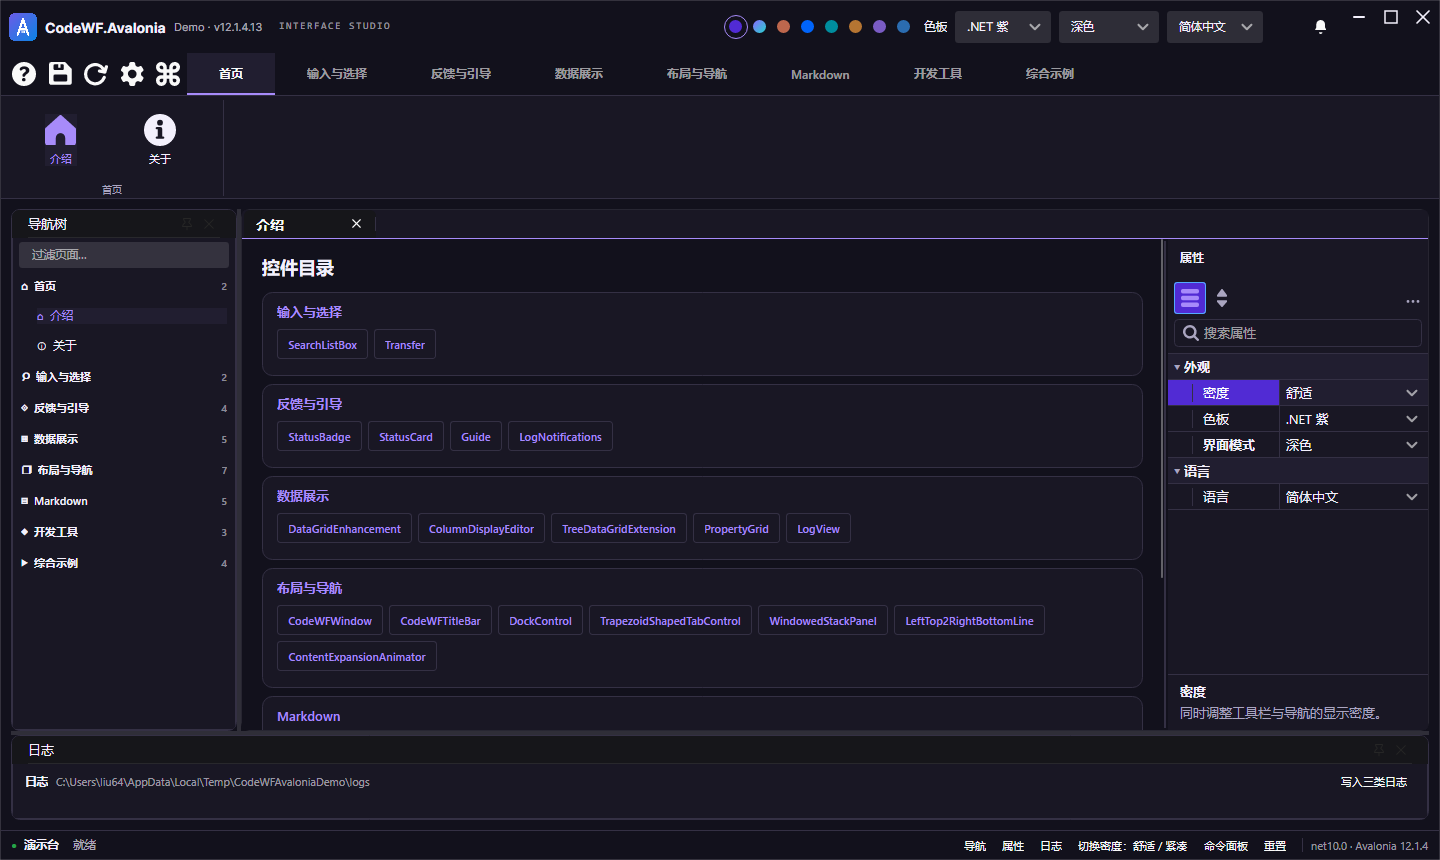
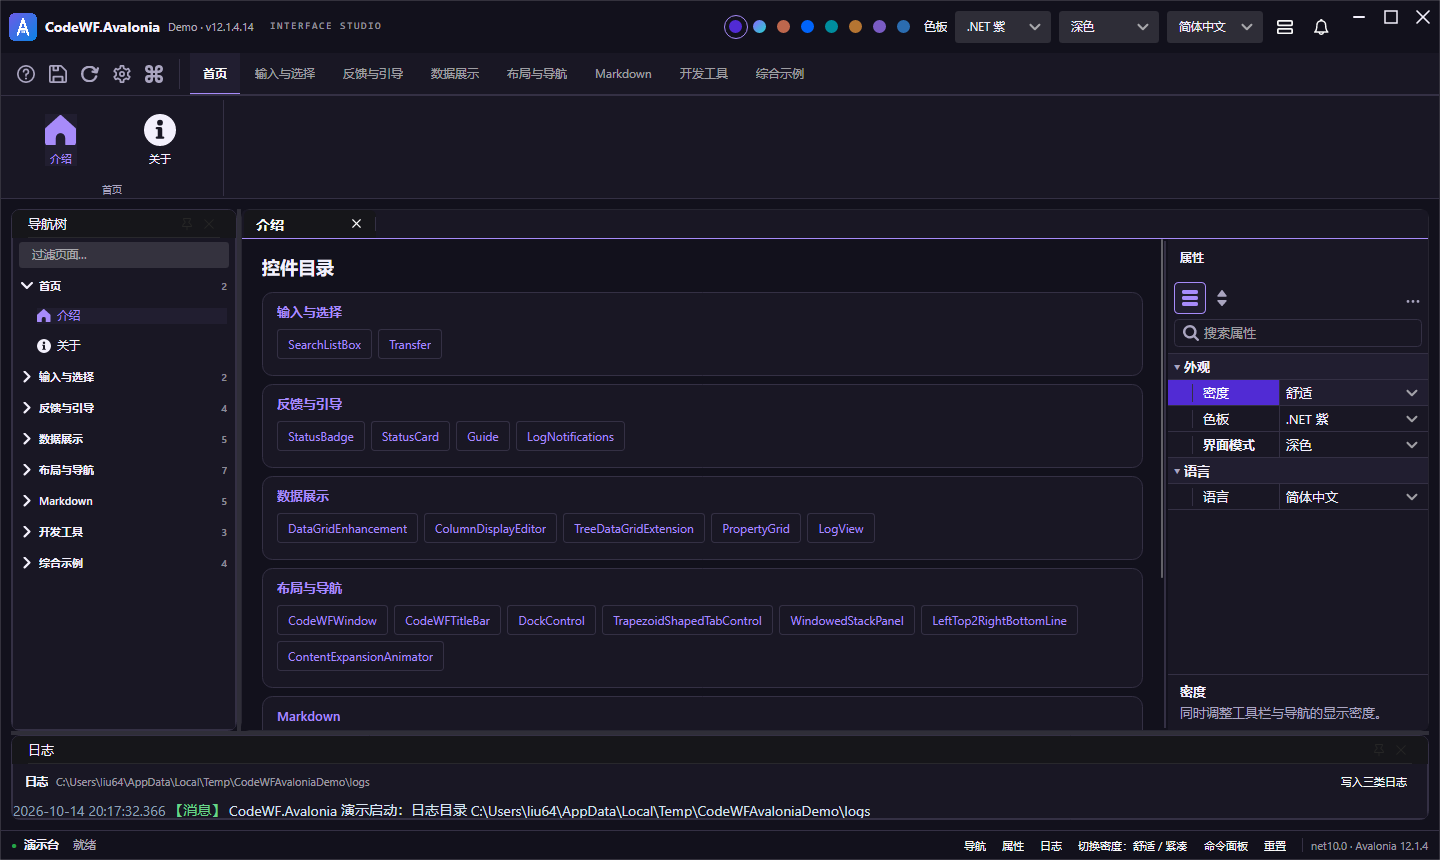
docs(release): 更新 12.1.4.14 原生截图与桌面验收记录

diff --git a/UpdateLog.md b/UpdateLog.md
@@ -1,5 +1,13 @@
 # 更新日志
 
+## 12.1.4.14 (2026-10-14)
+
+- 校准 Demo 快捷区的视觉重量：18 像素图标与 30 像素热区分别控制，增加分类分隔留白和悬停、按下、键盘焦点反馈。
+- Ribbon 分类复用 Semi 线形页签，消除模板与内容重复内边距；导航使用目录矢量图标，标题栏密度和通知改用 Semi 图形。
+- 应用默认字体统一覆盖 Dock 浮动窗与弹出层，目录入口按原型使用 12 像素常规字重，原型和视觉规格同步。
+- 属性面板排序按钮使用面板主题令牌，选中状态采用浅底与描边；Toolkit Demo 通过 NuGet 消费相同改进。
+- 验证：Windows x64 NativeAOT 脚本发布、原生冒烟和截图通过；图标与热区运行尺寸、中英文及窄窗口检查通过，README 的 PNG/GIF 同步更新；实机复核快捷保存的鼠标反馈与键盘焦点，修正浅色导航展开箭头的对比度。
+
 ## 12.1.4.13 (2026-10-14)
 
 - 新增 StudioPalette、StudioThemeMode 与 StudioThemeController：八套配色各自提供浅深资源，跟随系统通过平台事件更新；宿主退出可释放订阅。
